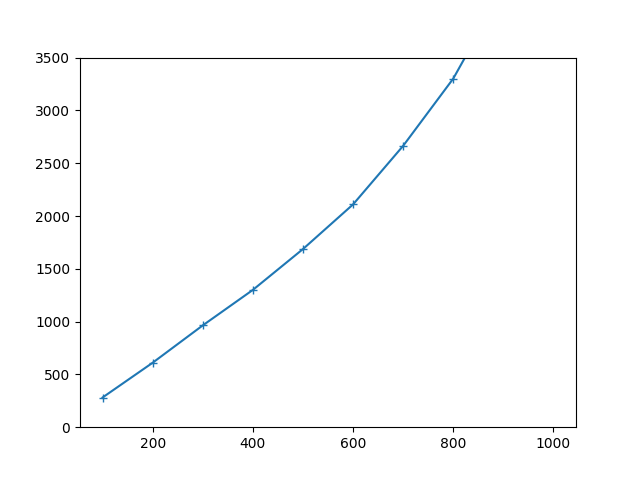
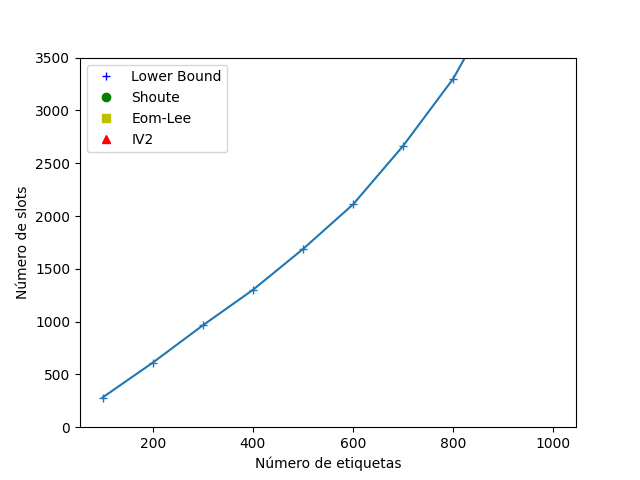
add legends

diff --git a/plots/main.py b/plots/main.py
@@ -1,4 +1,5 @@
 import matplotlib.pyplot as plt
+from matplotlib.legend_handler import HandlerBase
 import pandas as pd
 import sys
 import os
@@ -19,13 +20,25 @@ def save_and_clf(path):
     plt.savefig(path)
     plt.close()
 
+list_color  = ["b", "g", "y", "r"]
+list_mak    = ["+","o","s","^"]
+list_lab    = ['Lower Bound','Shoute','Eom-Lee', 'IV2']
+ax = plt.gca()
+class MarkerHandler(HandlerBase):
+    def create_artists(self, legend, tup,xdescent, ydescent,
+                       width, height, fontsize,trans):
+        return [plt.Line2D([width/2], [height/2.],ls="",
+                           marker=tup[1],color=tup[0], transform=trans)]
+
 def plot_total_slots(df):
     plt.plot(df['ntags'], df[df['estimador'] == 'lb']['total_slots'], marker='+')
     #     plt.plot(df['ntags'], df[df['estimador'] == 'shoute']['total_slots'], marker='o')
     #     plt.plot(df['ntags'], df[df['estimador'] == 'eom-lee']['total_slots'], marker='s')
     #     plt.plot(df['ntags'], df[df['estimador'] == 'iv2']['total_slots'], marker='^')
-    ax = plt.gca()
+    ax.legend(list(zip(list_color,list_mak)), list_lab, handler_map={tuple:MarkerHandler()})
     ax.set_ylim([0,3500])
+    ax.set_xlabel("Número de etiquetas")
+    ax.set_ylabel("Número de slots")
     save_and_clf(os.path.join(plots_path, "total_slots.png"))
 
 def plot_total_collisions(df):
@@ -34,7 +47,10 @@ def plot_total_collisions(df):
     #     plt.plot(df['ntags'], df[df['estimador'] == 'eom-lee']['total_collisions_slots'], marker='s')
     #     plt.plot(df['ntags'], df[df['estimador'] == 'iv2']['total_collisions_slots'], marker='^')
     ax = plt.gca()
+    ax.legend(list(zip(list_color,list_mak)), list_lab, handler_map={tuple:MarkerHandler()})
     ax.set_ylim([0,1800])
+    ax.set_xlabel("Número de etiquetas")
+    ax.set_ylabel("Número de slots em colisão")
     save_and_clf(os.path.join(plots_path, "total_collisions.png"))
 
 def plot_total_empty_slots(df):
@@ -43,7 +59,10 @@ def plot_total_empty_slots(df):
     #     plt.plot(df['ntags'], df[df['estimador'] == 'eom-lee']['total_empty_slots'], marker='s')
     #     plt.plot(df['ntags'], df[df['estimador'] == 'iv2']['total_empty_slots'], marker='^')
     ax = plt.gca()
+    ax.legend(list(zip(list_color,list_mak)), list_lab, handler_map={tuple:MarkerHandler()})
     ax.set_ylim([0,1100])
+    ax.set_xlabel("Número de etiquetas")
+    ax.set_ylabel("Número de slots vazios")
     save_and_clf(os.path.join(plots_path, "total_empty_slots.png"))
 
 def plot_total_time(df):
@@ -52,7 +71,10 @@ def plot_total_time(df):
     #     plt.plot(df['ntags'], df[df['estimador'] == 'eom-lee']['total_empty_slots'], marker='s')
     #     plt.plot(df['ntags'], df[df['estimador'] == 'iv2']['total_empty_slots'], marker='^')
     ax = plt.gca()
+    ax.legend(list(zip(list_color,list_mak)), list_lab, handler_map={tuple:MarkerHandler()})
     ax.set_ylim([0,10])
+    ax.set_xlabel("Número de etiquetas")
+    ax.set_ylabel("Tempo para identificação")
     save_and_clf(os.path.join(plots_path, "total_time.png"))
 
 plot_total_slots(df)
